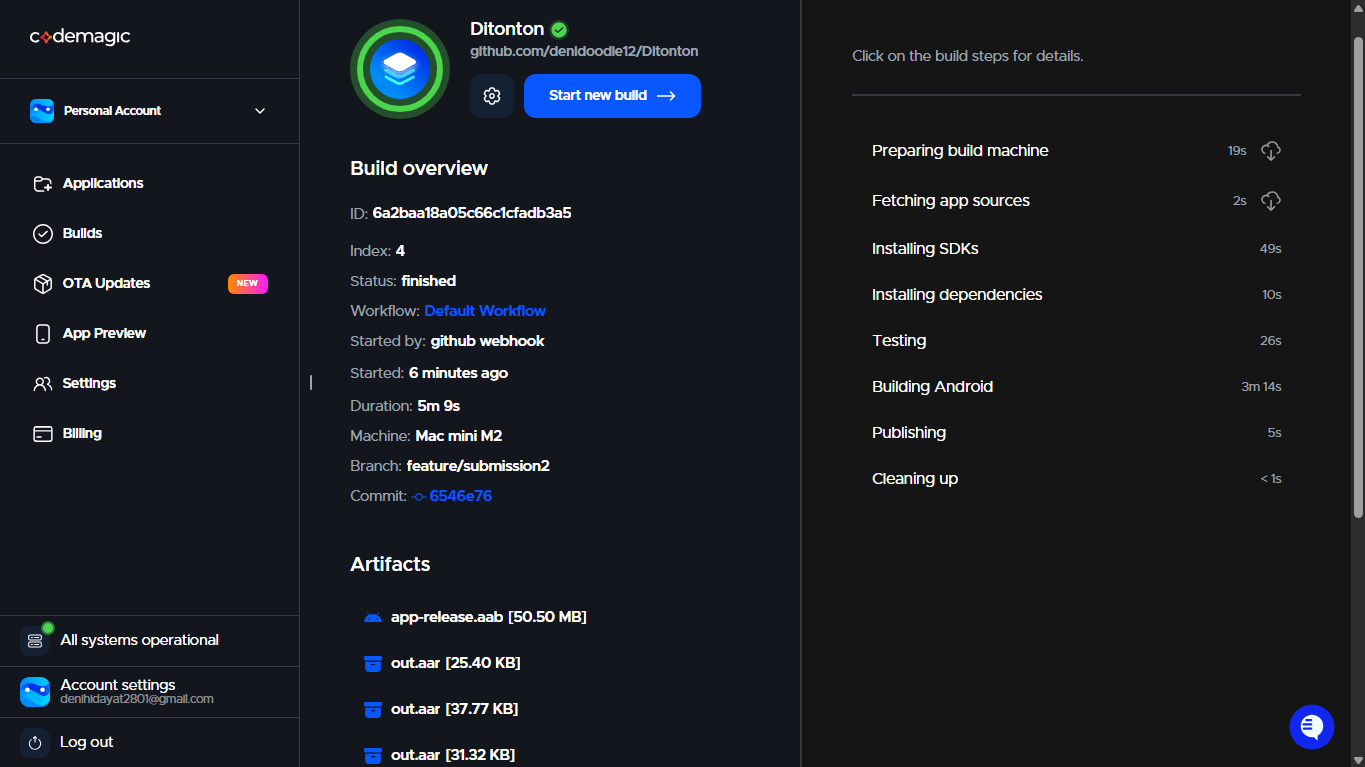
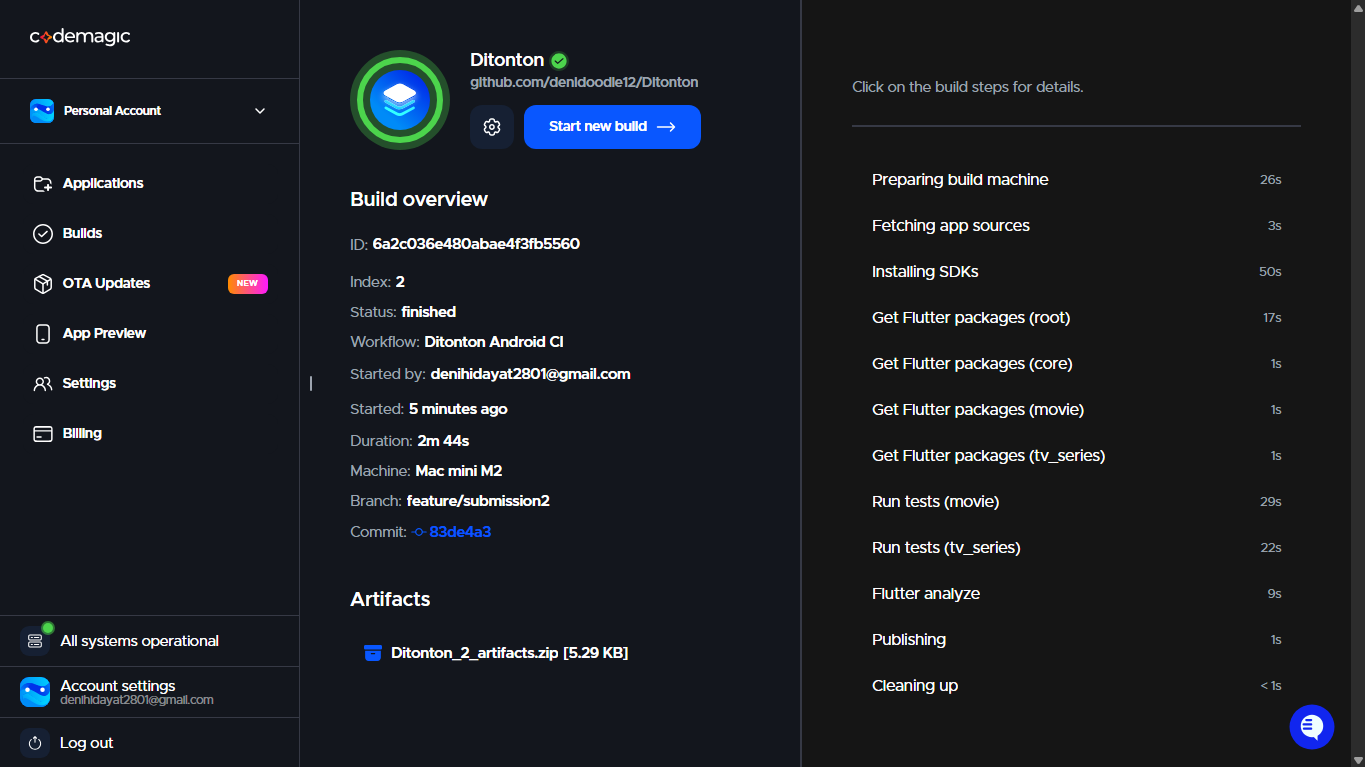
fix(ci): add auto trigger on push & update codemagic badge URL to android-workflow

diff --git a/README.md b/README.md
@@ -1,6 +1,6 @@
 # Ditonton 🎬
 
-[![Codemagic build status](https://api.codemagic.io/apps/6a2a3d5b270053c6778f5044/6a2a3d5b270053c6778f5043/status_badge.svg)](https://codemagic.io/app/6a2a3d5b270053c6778f5044/6a2a3d5b270053c6778f5043/latest_build)
+[![Codemagic build status](https://api.codemagic.io/apps/6a2a3d5b270053c6778f5044/android-workflow/status_badge.svg)](https://codemagic.io/app/6a2a3d5b270053c6778f5044/android-workflow/latest_build)
 
 A Flutter-based movie and TV series catalog app powered by the [The Movie Database (TMDB) API](https://www.themoviedb.org/). Built as the final submission for the **Flutter Expert Class — Dicoding Indonesia**.
 
